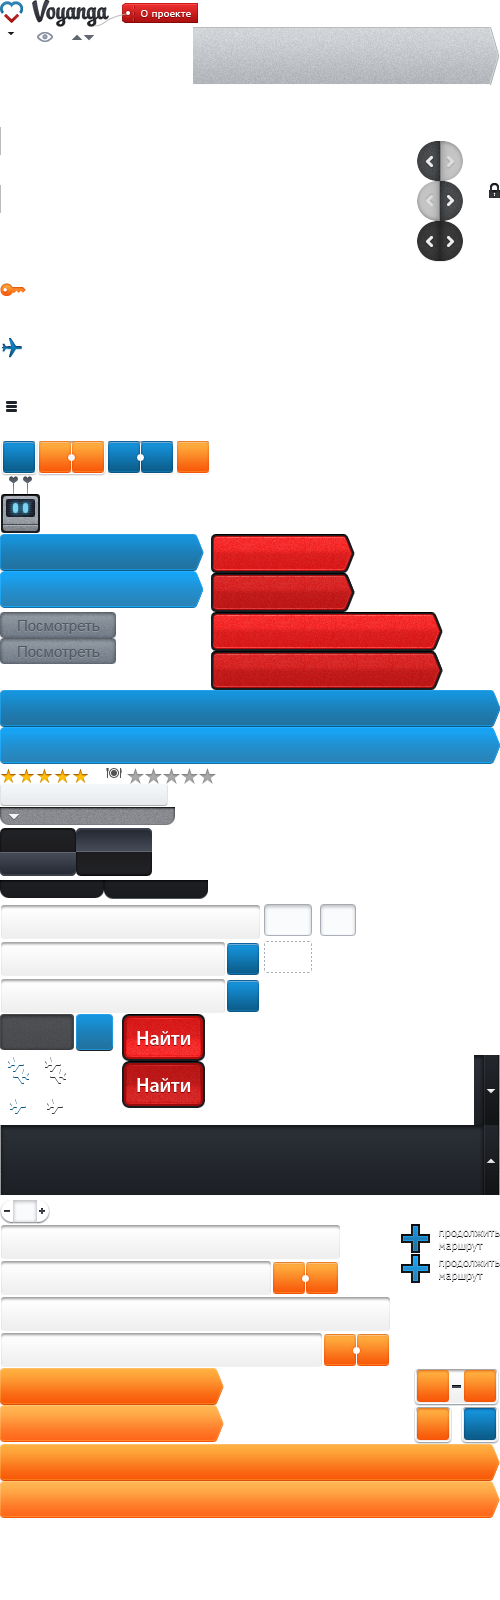
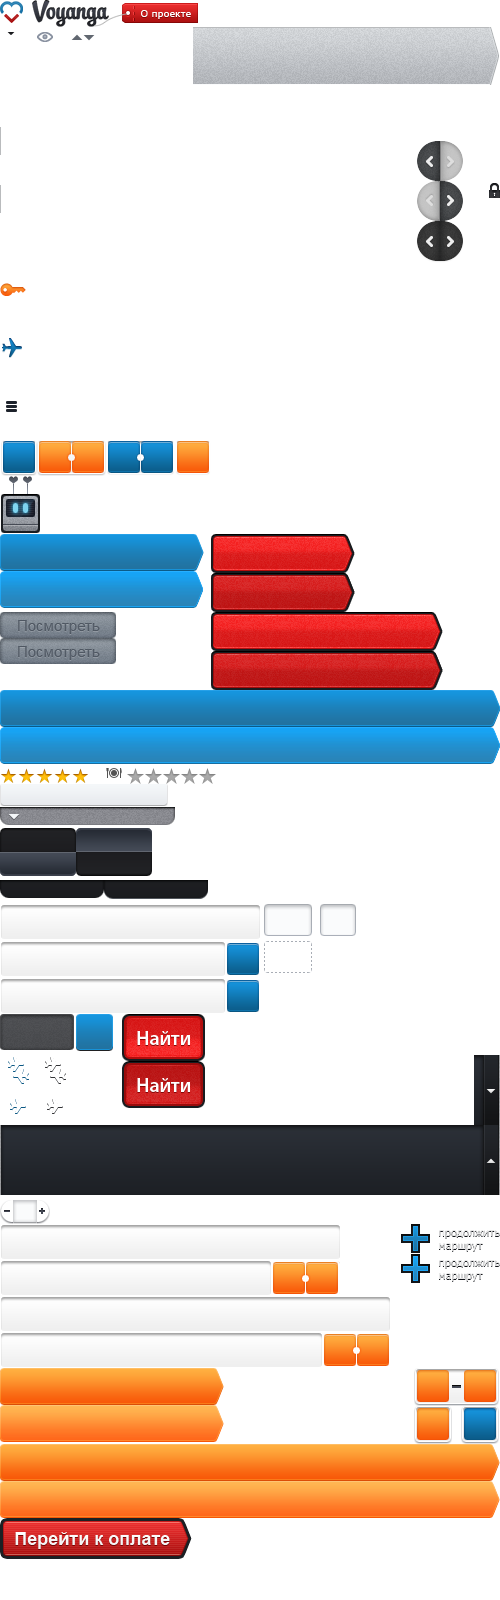
NEW ALL TOURS

Changed region(s): [[0.0, 0.9375, 0.39, 1.0]]

diff --git a/markup/04-ALL-TOUR.html b/markup/04-ALL-TOUR.html
@@ -250,10 +250,17 @@
 						</div>
 						<div class="info">
 							<div class="text">
-								<div class="headTitle">
-									<div class="ico-hotel"></div>
-									<div class="title">Санкт-Петербург &mdash; <span class="f13">начало путешествия</span></div>
-								</div>
+								<table class="headTitle">
+									<tr>
+										<td class="name">
+											<div class="ico-hotel"></div>
+											<div class="title">Санкт-Петербург &mdash; <span class="f13">начало путешествия</span></div>
+										</td>
+										<td class="allCost">
+											<a href="#" class="btnChangeStart">Добавить отель</a>
+										</td>
+									</tr>
+								</table>
 							</div>
 							<div class="hr-bg">
 								<img src="../frontend/www/themes/v2/assets/images/bg-hr-trip-all.png" width="100%" height="31">
@@ -273,16 +280,24 @@
 						</div>
 						<div class="info">
 							<div class="text">
-								<div class="headTitle">
-									<div class="ico-hotel"></div>
-									<div class="title">Перелёт Санкт-Петербург → Амстердам</div>
-								</div>
-								
-															
+								<table class="headTitle">
+									<tr>
+										<td class="name">
+											<div class="ico-jet"></div>
+											<div class="title">Перелёт Санкт-Петербург → Амстердам</div>
+										</td>
+										<td class="allCost">
+											2 человека
+											<span class="costs">58 000 <span class="rur">o</span></span>
+											<a href="#" class="btnDeleteTrip"></a>
+										</td>
+									</tr>
+								</table>	
+								<!-- ЗДЕСЬ БИЛЕТ -->					
 								<table class="descrTicket">
 									<tr>
 										<td class="text">Или другой вариант среди: <span class="f19">19</span> авиакомпаний, от <span class="f19">3 500 <span class="f19 rur">o</span></span> до <span class="f19">14 770 <span class="f19 rur">o</span></span></td>
-										<td class="btn">
+										<td class="buttons">
 											 <a class="btn-cost" href="#">
 									            <span class="l"></span>
 									            <span class="text">Все авиабилеты</span>
@@ -314,14 +329,24 @@
 						</div>
 						<div class="info">
 							<div class="text">							
-								<div class="headTitle">
-									<div class="ico-hotel"></div>
-									<div class="title">Отель в Амстердам</div>
-								</div>								
+								<table class="headTitle">
+									<tr>
+										<td class="name">
+											<div class="ico-hotel"></div>
+											<div class="title">Отель в Амстердам</div>
+										</td>
+										<td class="allCost">
+											2 человека, 7 дней:
+											<span class="costs">58 000 <span class="rur">o</span></span>
+											<a href="#" class="btnDeleteTrip"></a>
+										</td>
+									</tr>
+								</table>	
+								<!-- ЗДЕСЬ БИЛЕТ -->							
 								<table class="descrTicket">
 									<tr>
 										<td class="text">Вы можете подобрать другой вариант среди: <span class="f19">189</span> гостиниц, от <span class="f19">3 500 <span class="f19 rur">o</span></span> до <span class="f19">14 770 <span class="f19 rur">o</span></span></td>
-										<td class="btn">
+										<td class="buttons">
 											 <a class="btn-cost hotel" href="#">
 									            <span class="l"></span>
 									            <span class="text">Все отели</span>
@@ -339,7 +364,7 @@
 				<div class="hr-bg">
 					<img src="../frontend/www/themes/v2/assets/images/bg-hr-trip-all.png" width="100%" height="31">
 				</div>
-				
+				<h3 class="calendarTitle">Календарь поездки</h3>
 				<!-- CALENDAR -->
 				<div class="innerCalendar allTourCal">
 				<div id='voyanga-calendar' class="hotel">
@@ -365,6 +390,15 @@
 				</div>
 			</div>
 				<!-- END CALENDARE -->
+				<br>
+				<div class="hr-bg">
+					<img src="../frontend/www/themes/v2/assets/images/bg-hr-trip-all.png" width="100%" height="31">
+				</div>
+				<div class="costItAll">
+					Итого <span class="allCost">86 250 <span class="rur">o</span></span>
+					<a href="#" class="btnGoBuy"></a><br>
+					<a href="#" class="detailCost"><img src="../frontend/www/themes/v2/assets/images/detail-cost.png"></a>
+				</div>
 			</div>
 			<!-- END CONTENT -->
 		</div>

diff --git a/frontend/www/themes/v2/assets/css/style.css b/frontend/www/themes/v2/assets/css/style.css
@@ -1482,6 +1482,27 @@ input.hotel-input {
 }
 .allTrip .block .headTitle {
 	margin-bottom: 20px;
+	width: 100%;
+	color: #252628;
+}
+
+.allTrip .block .headTitle td.allCost {
+	text-align: right;
+	font-size: 11px; font-family: Arial;
+	text-shadow: 0px 1px 0px rgba(172,186,194, 0.6);
+}
+.allTrip .block .headTitle td.allCost .costs {
+	background: none repeat scroll 0 0 #FFFFFF;
+    border: 1px solid #C4CDD5;
+    border-radius: 4px 4px 4px 4px;
+    box-shadow: 0 1px 0 #EAEBEC;
+    display: inline-block;
+    font-size: 12px;
+    padding: 2px 5px;
+    text-shadow: 0px 1px 0px rgba(172,186,194, 0.6);
+}
+.allTrip .block .headTitle td.allCost .btnDeleteTrip {
+	margin-left: 20px;
 }
 .allTrip .block .info {
 	padding-bottom: 31px;
@@ -1495,6 +1516,14 @@ input.hotel-input {
 	background: url(../images/ico-trip-all-hotel.png) no-repeat 6px 0px;
 	display: inline-block;
 	vertical-align: baseline;
+	margin-right: 9px;
+}
+.allTrip .block .ico-jet {
+	width: 26px;
+	height: 26px;
+	background: url(../images/ico-trip-all-jet.png) no-repeat center center;
+	display: inline-block;
+	vertical-align: bottom;
 	margin-right: 9px;
 }
 .allTrip .block .title {
@@ -1531,7 +1560,26 @@ input.hotel-input {
 .descrTicket td.text {
 	padding-left: 10px;
 }
-.descrTicket td.btn {
+.descrTicket td.buttons {
 	width: 160px;
 	text-align: right;
+}
+
+.costItAll {
+	text-align: right;
+	color: #252628;
+	font-size: 22px;
+	padding-bottom: 70px;
+}
+.allCost {
+	font-weight: bold;
+	font-size: 28px;
+}
+.detailCost {
+	width: 172px; height: 31px;
+	text-align: center;
+	display: inline-block;
+	margin-top: 9px;
+	margin-right: 13px;
+	
 }

diff --git a/frontend/www/themes/v2/assets/css/btn.css b/frontend/www/themes/v2/assets/css/btn.css
@@ -122,3 +122,36 @@
 .btn-find:hover {
 	background-position: -122px -1061px;
 }
+.btnDeleteTrip {
+	width: 11px; height: 11px;
+	display: inline-block;
+	cursor: pointer;
+	text-indent: -9999px;
+	background: url(../images/ico-my-trip.png) no-repeat -7px -605px;
+	vertical-align: middle;
+}
+.btnDeleteTrip:hover {
+	background-position: -7px -663px;
+}
+.btnChangeStart {
+	background: url("../images/btnTripAll.png") no-repeat scroll 0 0 transparent;
+    color: #FFFFFF;
+    display: inline-block;
+    font-size: 12px;
+    height: 22px;
+    padding-top: 2px;
+    text-align: center;
+    text-shadow: 0 1px 0 #35383C;
+    vertical-align: text-top;
+    width: 105px;
+}
+.btnGoBuy {
+	text-indent: -9999px;
+	width: 193px;
+	height: 42px;
+	display: inline-block;
+	background: url(../images/slice.png) 0px -1518px;
+	vertical-align: bottom;
+	margin-left: 30px;	
+	position: relative;
+}

diff --git a/frontend/www/themes/v2/assets/css/body.css b/frontend/www/themes/v2/assets/css/body.css
@@ -27,6 +27,13 @@ h3 {
 	color: #1d222b;
 	margin-bottom: 10px;
 }
+h3.calendarTitle {
+	color: #202328;
+	font-size: 24px;
+	font-family: Georgia;
+	font-weight: bold;
+	font-style: italic;
+}
 h4 {
 	color: #1d222b; font-size: 15px; text-shadow: 0px 1px 0px #FFF;
 	margin-bottom: 9px;
